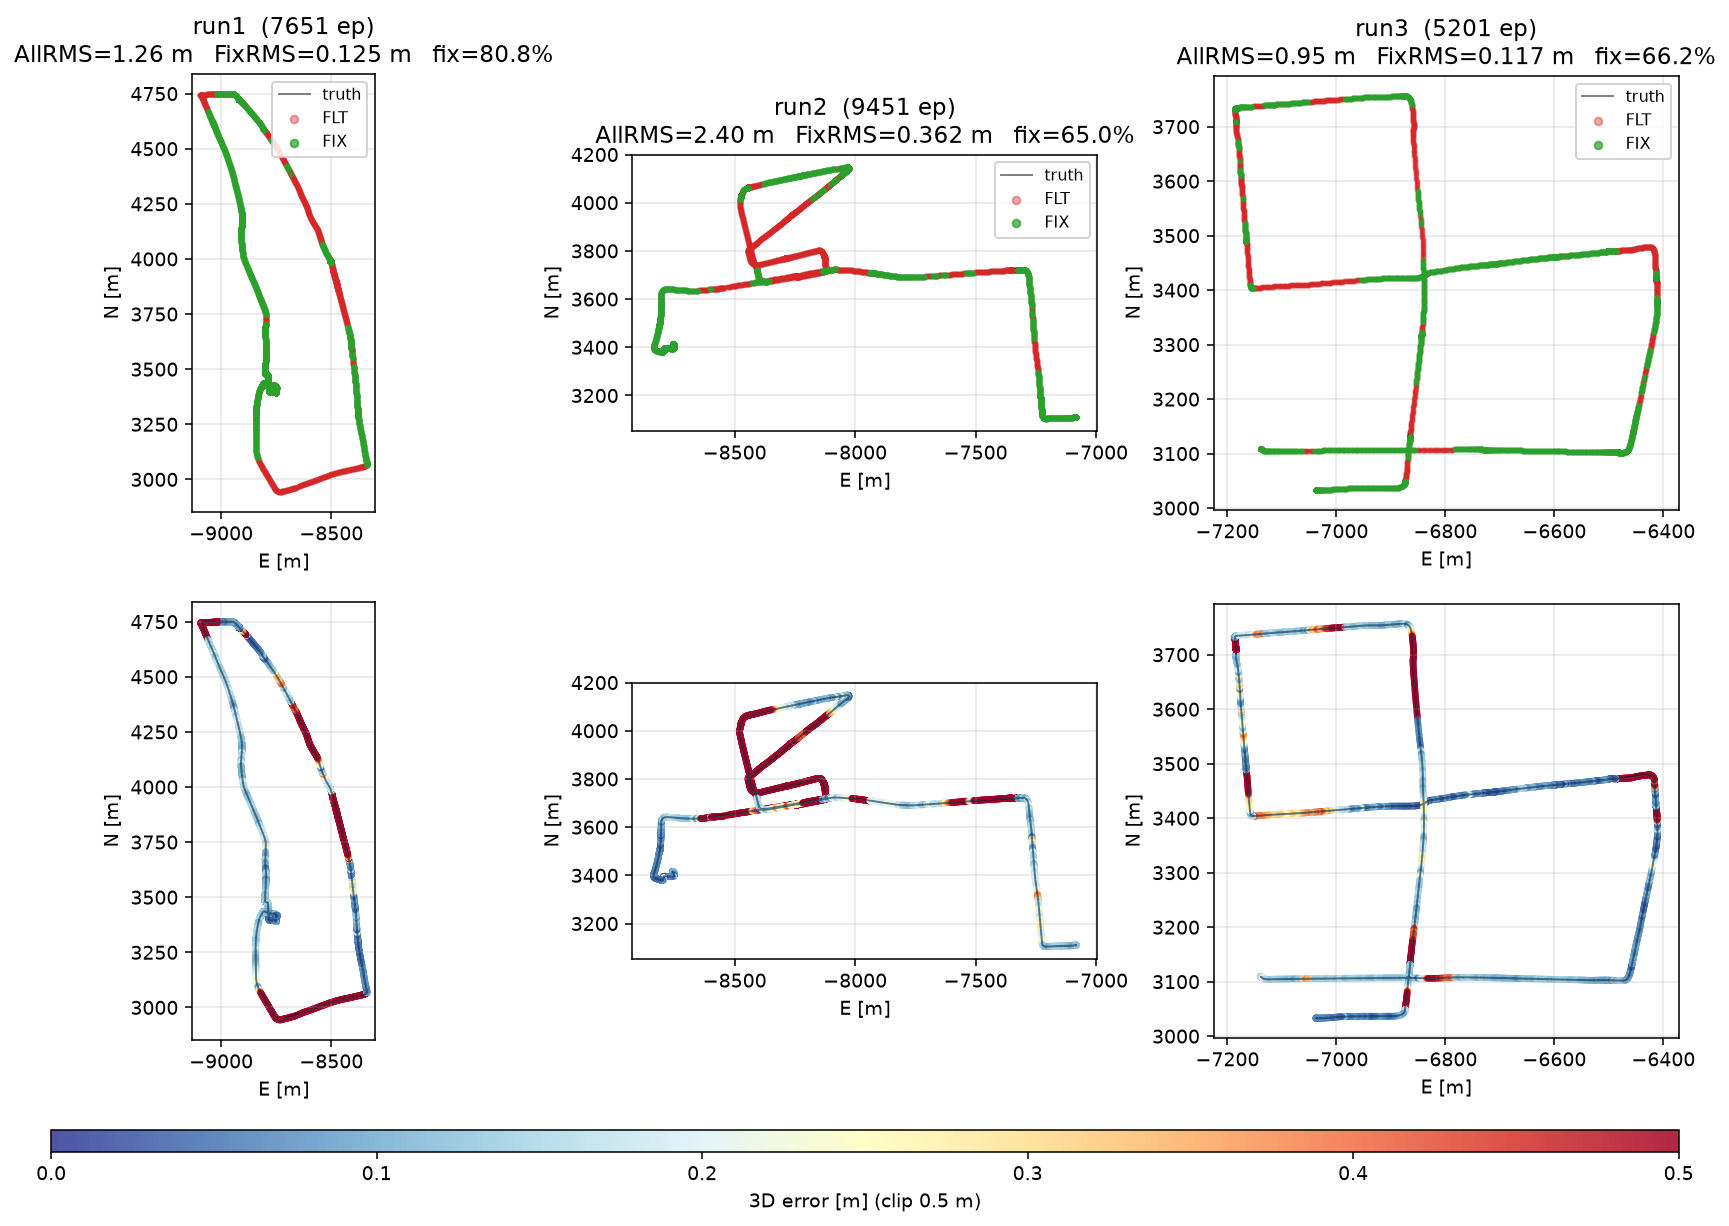
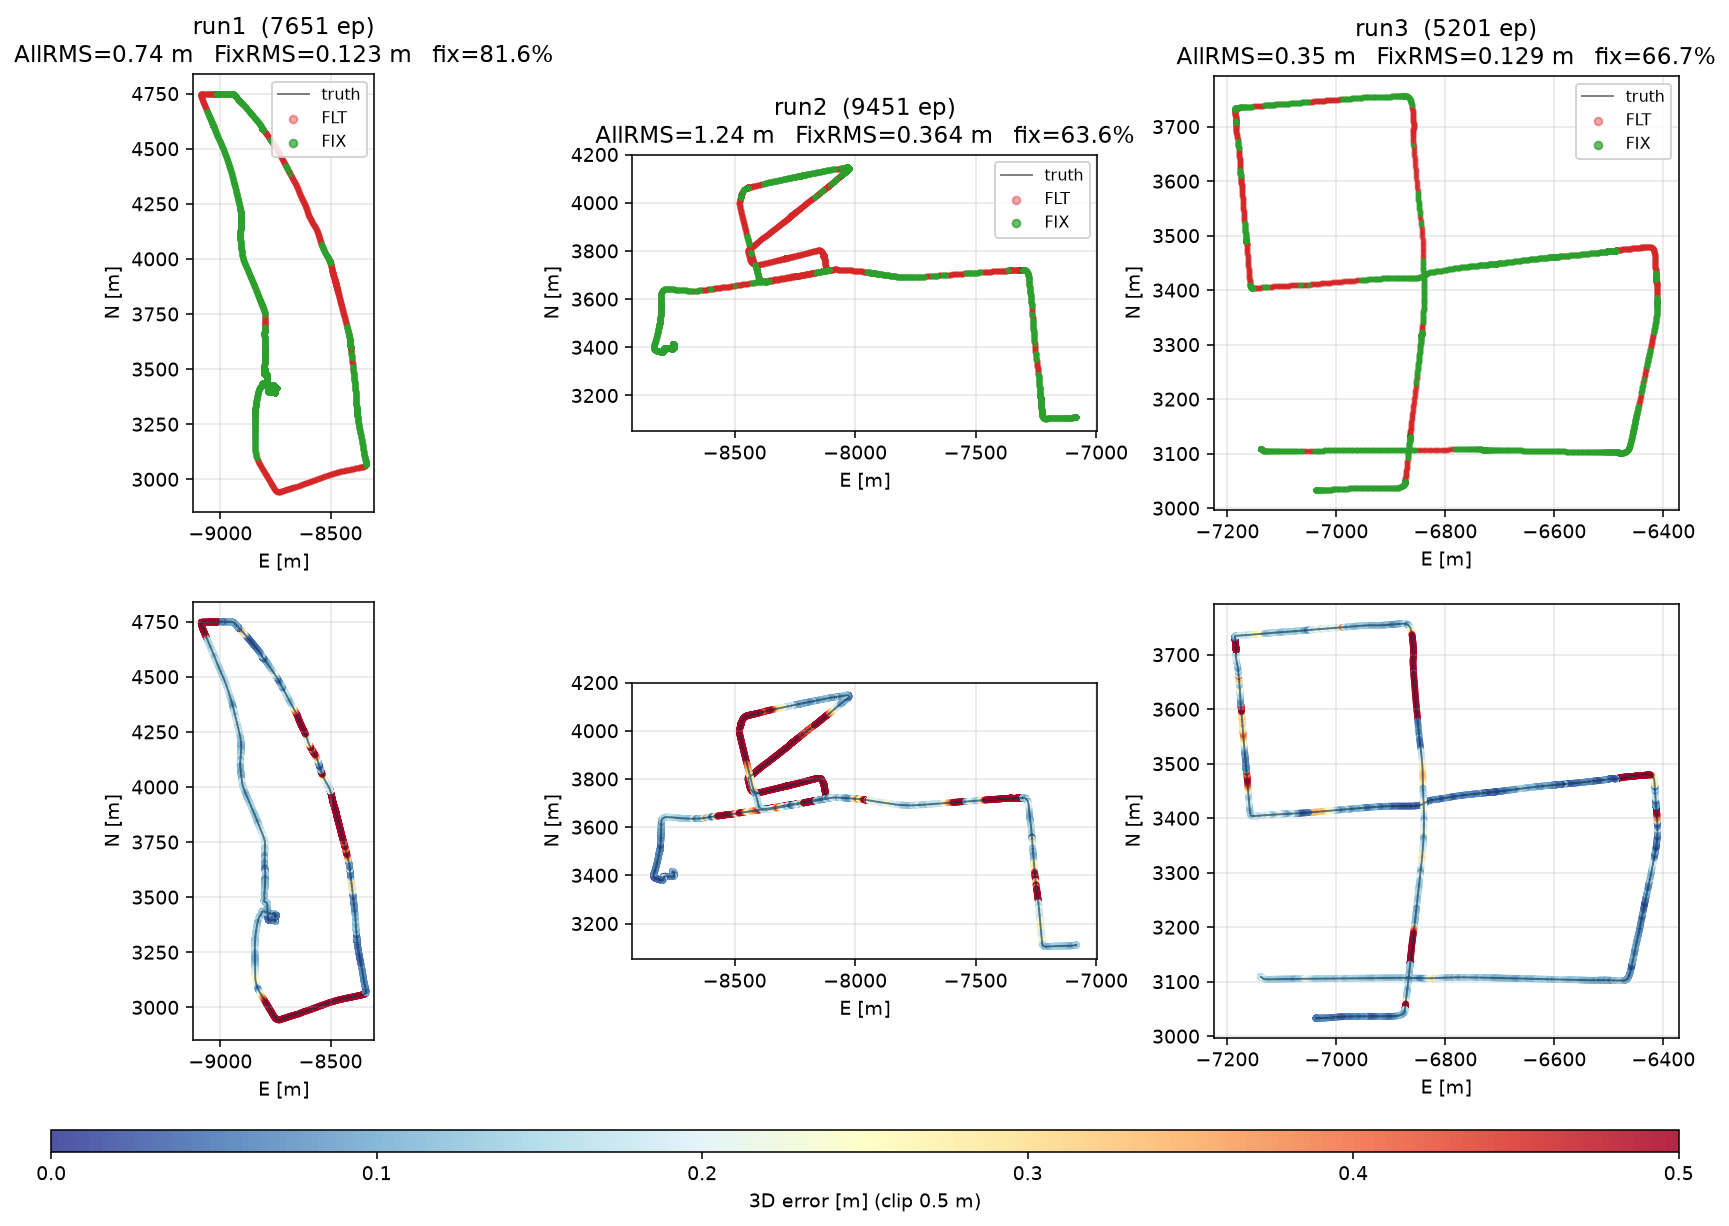
feat(tc): switch sequential GNSS M-estimator to Cauchy(2.385) (#104)

diff --git a/src/gnss_fgo/factors.py b/src/gnss_fgo/factors.py
@@ -8,7 +8,7 @@ from ._extra_factors import (
     NhcFactorCalib,
     SingleDifferenceDopplerFactorArm,
 )
-from .utils import get_wavelengths, huber_noise
+from .utils import cauchy_noise, get_wavelengths
 
 # ── Ambiguity seeding ─────────────────────────────────────────────────
 
@@ -148,7 +148,7 @@ def _build_cp_pair(tc, graph, values, obs, obsb, iu, ir_map, key_pose, lever,
         key_pose, key_n_ref, key_n_j,
         cp_ref_r, cp_ref_b, cp_j_r, cp_j_b,
         ref_pt, j_pt, ref_base_pt, j_base_pt, tc.base_pt, lam,
-        lever, tc.ecef_T_nav, huber_noise(sigma)))
+        lever, tc.ecef_T_nav, cauchy_noise(sigma)))
     return 1
 
 
@@ -208,7 +208,7 @@ def build_dd_factors(tc, graph, values, obs, obsb, obs_sd,
                 sigma_cp = dd_obs_sigma(tc, False, snrs, dt_s)
                 graph.add(gtsam.DoubleDifferencePseudorangeFactorArm(
                     key_pose, *pr_obs, *sat_pts, tc.base_pt, lever,
-                    tc.ecef_T_nav, huber_noise(sigma_pr)))
+                    tc.ecef_T_nav, cauchy_noise(sigma_pr)))
                 n_dd += 1
                 if obs_sd.L[ref_idx, f] == 0 or obs_sd.L[j_idx, f] == 0:
                     continue
@@ -289,7 +289,7 @@ def add_sd_doppler_factors(tc, graph, key_idx, obs, obs_sd, rs, vs, sat, el,
             np.asarray(ref[1], dtype=float), np.asarray(ref[2], dtype=float),
             rr, lever, tc.ecef_T_nav, omega,
             0.0, 0.0,
-            huber_noise(np.hypot(sig, sigma_ref))))
+            cauchy_noise(np.hypot(sig, sigma_ref))))
         n += 1
     info['doppler_sd_n'] = n
     info['doppler_sd_ref'] = int(ref[0])

diff --git a/src/gnss_fgo/utils.py b/src/gnss_fgo/utils.py
@@ -112,15 +112,26 @@ def get_wavelengths(obs_sd, sat: int, glo_ch: dict | None = None) -> List[float]
 # ── Pipeline helpers ──────────────────────────────────────────────────
 
 HUBER_K = 1.345  # 95% asymptotic relative efficiency under Gaussian noise
+CAUCHY_K = 2.385  # 95% asymptotic relative efficiency under Gaussian noise (Holland & Welsch 1977)
 
 
-def huber_noise(sigma: float, k: float = HUBER_K):
-    """Build 1-D Gaussian or GTSAM Huber robust noise model."""
+def _robust_noise(sigma: float, k: float, estimator_cls):
+    """Build 1-D Gaussian or GTSAM M-estimator robust noise model."""
     base = gtsam.noiseModel.Isotropic.Sigma(1, float(sigma))
     if float(k) <= 0.0:
         return base
     return gtsam.noiseModel.Robust.Create(
-        gtsam.noiseModel.mEstimator.Huber.Create(float(k)), base)
+        estimator_cls.Create(float(k)), base)
+
+
+def huber_noise(sigma: float, k: float = HUBER_K):
+    """Build 1-D Gaussian or GTSAM Huber robust noise model."""
+    return _robust_noise(sigma, k, gtsam.noiseModel.mEstimator.Huber)
+
+
+def cauchy_noise(sigma: float, k: float = CAUCHY_K):
+    """Build 1-D Gaussian or GTSAM Cauchy robust noise model."""
+    return _robust_noise(sigma, k, gtsam.noiseModel.mEstimator.Cauchy)
 
 
 def sorted_amb_items(amb_dict):

diff --git a/README.md b/README.md
@@ -5,7 +5,7 @@
 *carrier-phase RTK · LAMBDA ambiguity resolution · GTSAM · urban driving · reproducible*
 
 The full RTK chain lives inside the graph: double-differenced
-pseudorange **and carrier phase** with Huber M-estimator noise,
+pseudorange **and carrier phase** with Cauchy M-estimator noise,
 continuous integer ambiguity resolution (LAMBDA + partial AR), and
 100 Hz IMU preintegration — targeting centimeter FIX in deep urban
 canyons, with IMU + single-differenced Doppler bridging NLOS storms
@@ -14,7 +14,7 @@ and tunnels.
 ## What's inside
 
 - **RTK in the graph** — DD pseudorange + DD carrier-phase factors with
-  Huber robust noise on a QR-factorized GTSAM
+  Cauchy robust noise (`k = 2.385`) on a QR-factorized GTSAM
   `IncrementalFixedLagSmoother`, float ambiguities chained via per-epoch
   random walk, clock-free seeding (SD phase − SD code)
 - **Integer ambiguity resolution** — continuous LAMBDA + partial AR
@@ -38,14 +38,14 @@ reproducible end to end — three full urban-Tokyo drives and three
 urban-Nagoya drives
 ([PPC-Dataset](https://github.com/taroz/PPC-Dataset)):
 
-| run         | length    | AllRMS  | median  | FixRMS  | fix %  | <50 cm |
-|-------------|-----------|---------|---------|---------|--------|--------|
-| tokyo run1  | 11951 ep  |  1.21 m | 0.040 m | 0.11 m  | 79.1 % | 87.0 % |
-| tokyo run2  |  9151 ep  |  0.93 m | 0.032 m | 0.06 m  | 85.9 % | 90.0 % |
-| tokyo run3  | 15301 ep  |  0.81 m | 0.029 m | 0.16 m  | 88.7 % | 93.8 % |
-| nagoya run1 |  7651 ep  |  1.26 m | 0.126 m | 0.13 m  | 80.8 % | 85.5 % |
-| nagoya run2 |  9451 ep  |  2.40 m | 0.229 m | 0.36 m  | 65.0 % | 59.3 % |
-| nagoya run3 |  5201 ep  |  0.95 m | 0.127 m | 0.12 m  | 66.2 % | 84.5 % |
+| run         | length    | AllRMS  | median  | FixRMS  | fix %  | <50 cm | Max     |
+|-------------|-----------|---------|---------|---------|--------|--------|---------|
+| tokyo run1  | 11951 ep  |  0.96 m | 0.039 m | 0.09 m  | 78.1 % | 88.6 % | 13.91 m |
+| tokyo run2  |  9151 ep  |  0.84 m | 0.032 m | 0.06 m  | 86.2 % | 90.7 % |  9.16 m |
+| tokyo run3  | 15301 ep  |  0.69 m | 0.029 m | 0.06 m  | 89.7 % | 97.6 % | 13.66 m |
+| nagoya run1 |  7651 ep  |  0.74 m | 0.122 m | 0.12 m  | 81.6 % | 88.6 % |  8.31 m |
+| nagoya run2 |  9451 ep  |  1.24 m | 0.232 m | 0.36 m  | 63.6 % | 59.6 % |  4.73 m |
+| nagoya run3 |  5201 ep  |  0.35 m | 0.127 m | 0.13 m  | 66.7 % | 88.1 % |  1.69 m |
 
 
 ![tokyo_defaults](docs/tokyo_defaults.png)
@@ -99,7 +99,7 @@ Flat module layout under `src/gnss_fgo/`:
 | `factors.py` | measurement → GTSAM factor builders (DD PR/CP, SD Doppler, NHC, ambiguity seeding), `SatStateMap`, and cycle-slip detection |
 | `ar.py` | LAMBDA + partial AR with dimension-adaptive FFRT and full-AR fix-and-hold |
 | `config.py` | `TcConfig` and `BatchConfig` |
-| `utils.py` | geometry, IMU params/preintegration, signal auto-detection, Huber noise |
+| `utils.py` | geometry, IMU params/preintegration, signal auto-detection, Huber / Cauchy robust noise |
 | `batch.py`, `batch_ar.py`, `batch_graph.py` | offline whole-run batch TC pipeline and global AR |
 
 ## Configuration
